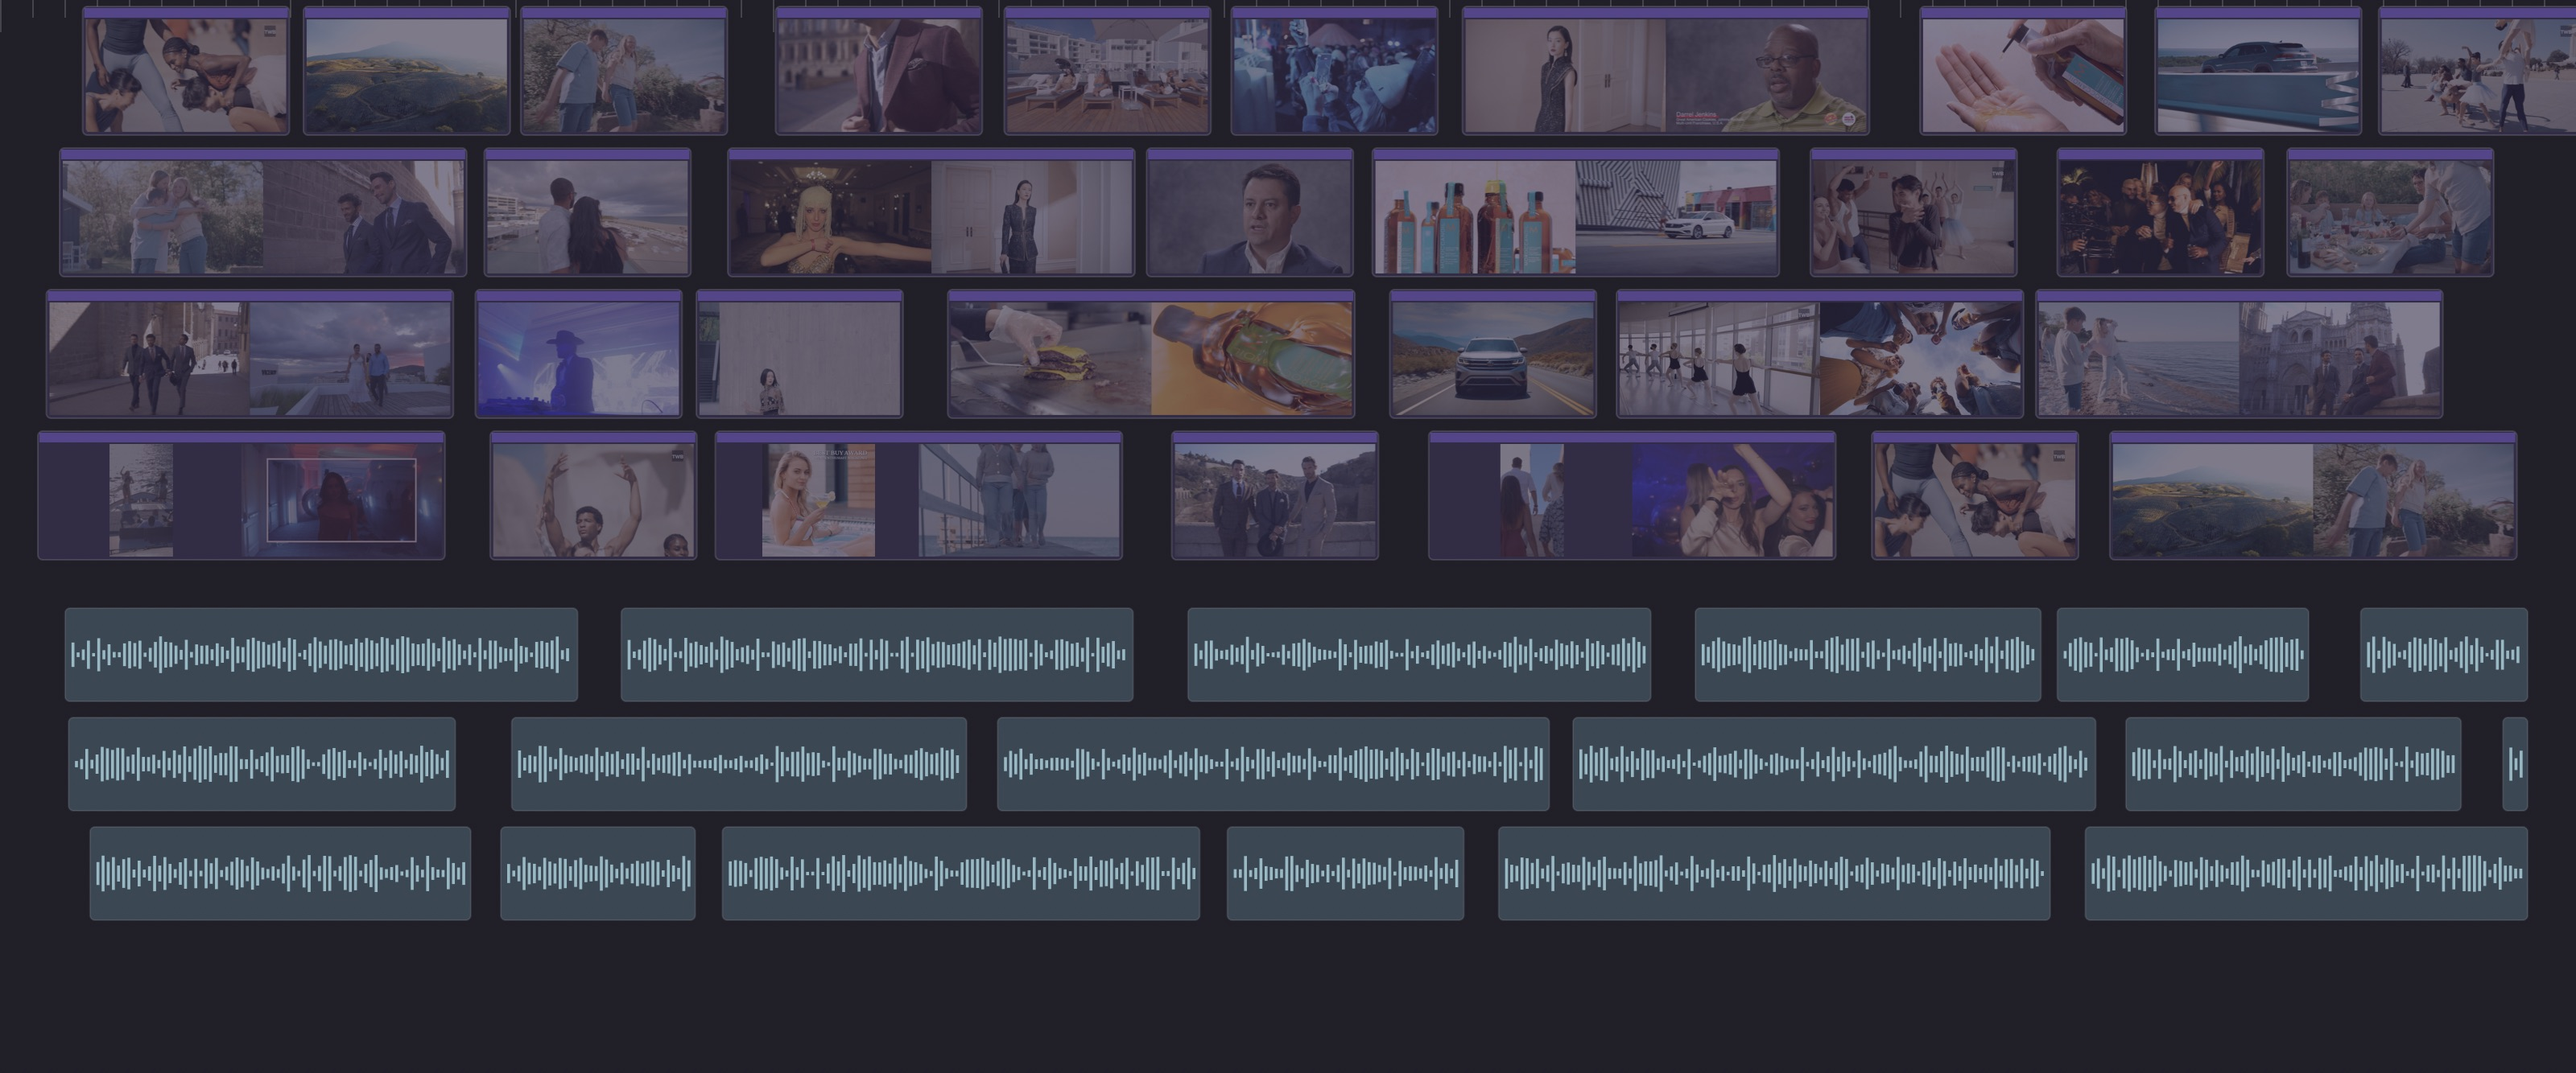
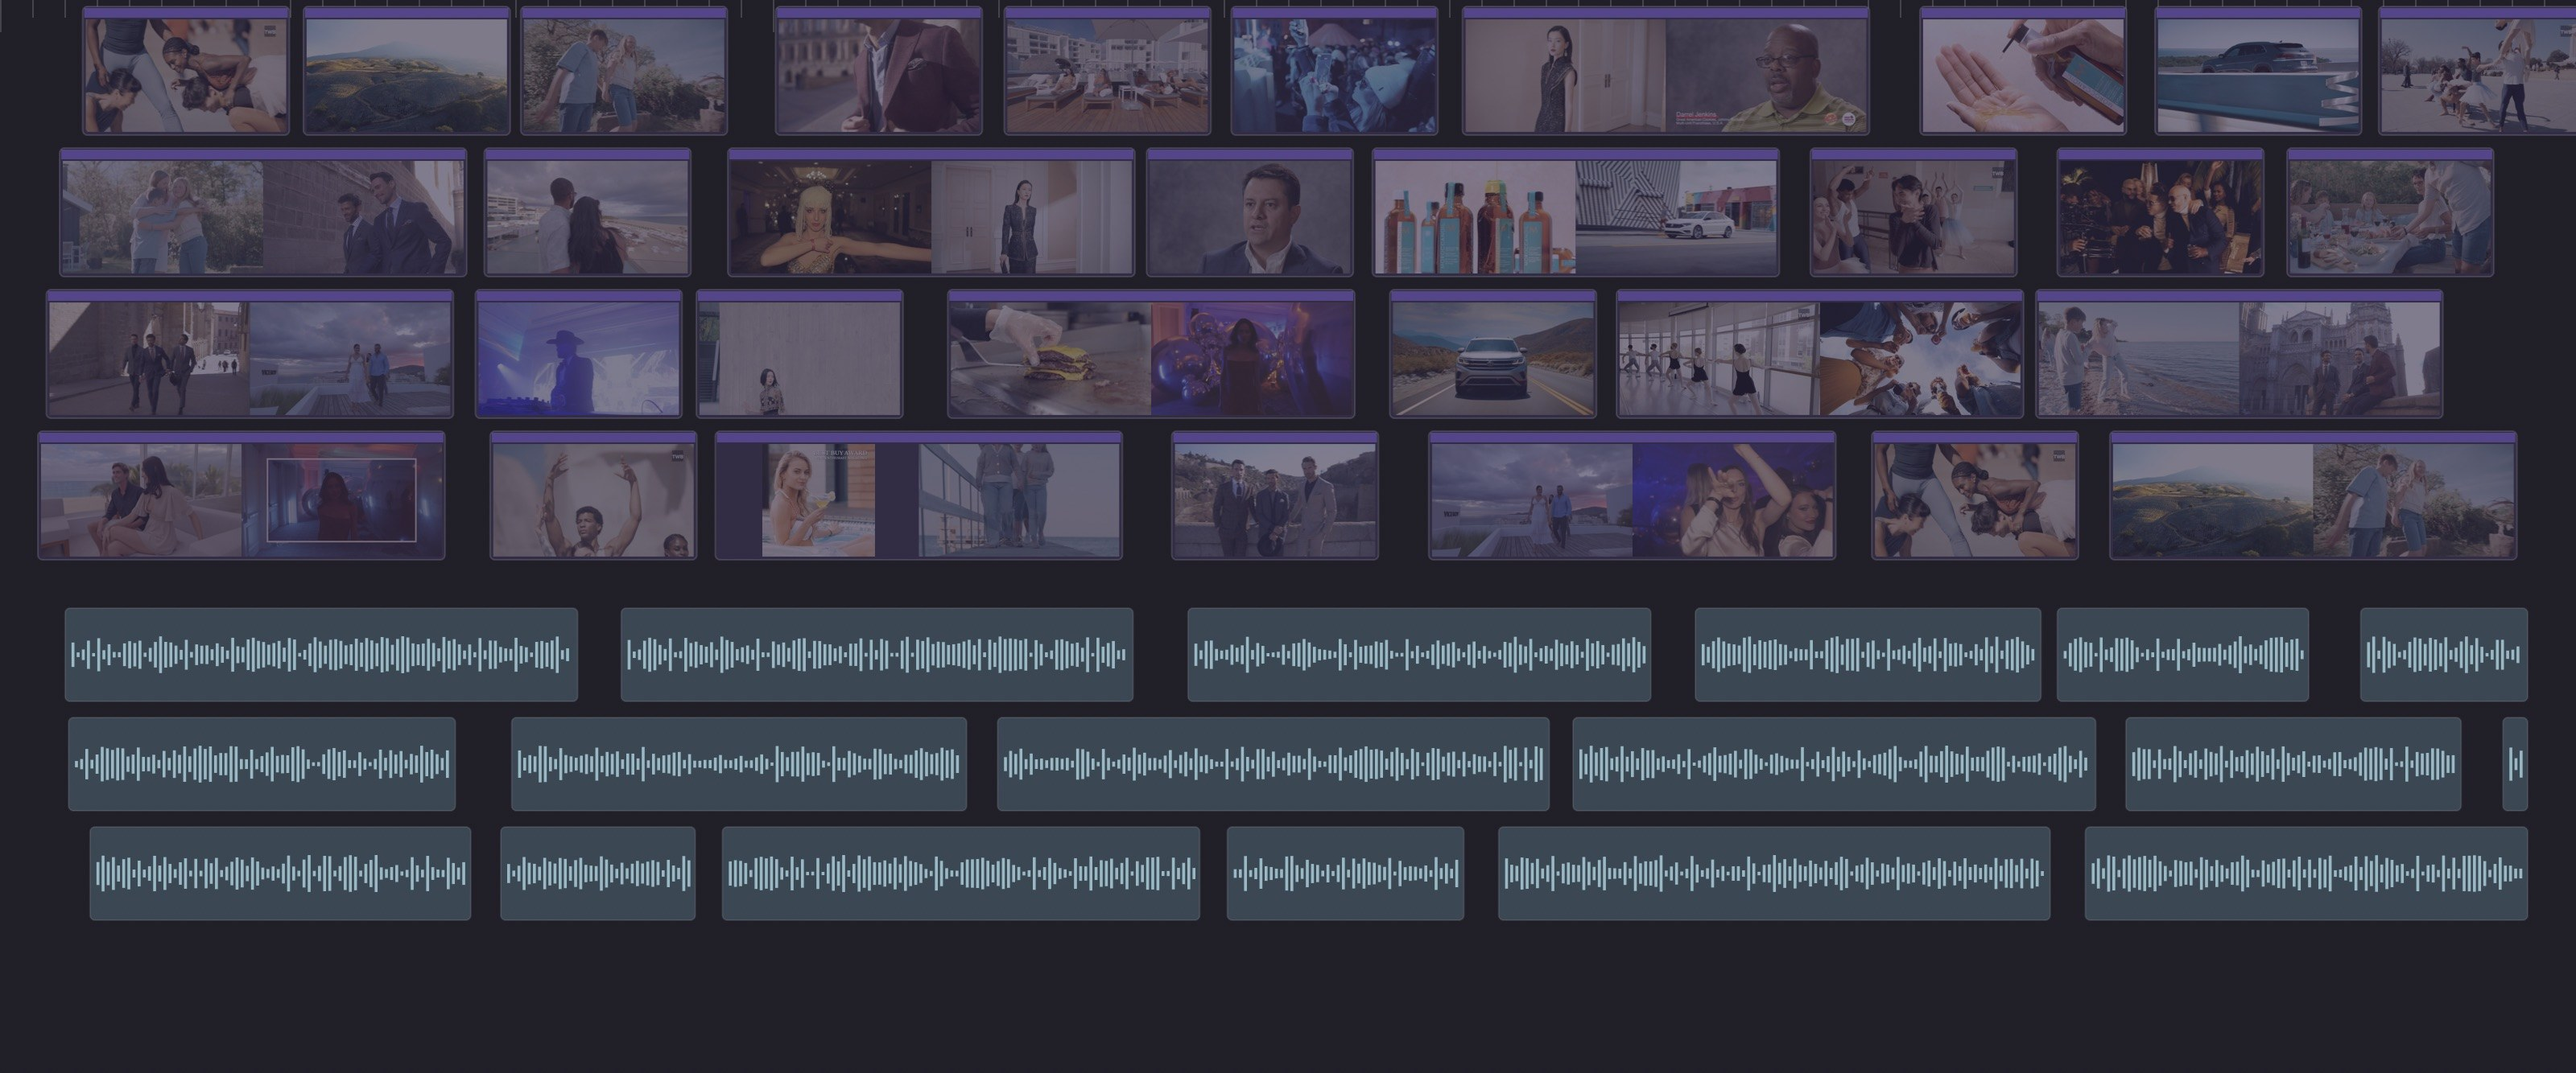
Refine hero timeline frames

Changed region(s): [[0.5312, 0.3996, 0.6562, 0.5225], [0.4375, 0.2766, 0.5312, 0.3996], [0.0, 0.3996, 0.0938, 0.5225]]

diff --git a/assets/site.css b/assets/site.css
@@ -45,7 +45,7 @@
       linear-gradient(100deg, rgba(19,18,23,.93) 0%, rgba(19,18,23,.70) 30%, rgba(19,18,23,.16) 62%, rgba(19,18,23,.30) 100%),
       linear-gradient(0deg, rgba(19,18,23,.90) 0%, rgba(19,18,23,.08) 48%, rgba(19,18,23,.26) 100%),
       radial-gradient(120% 90% at 72% 18%, rgba(169,139,239,.28), rgba(27,26,31,0) 55%),
-      url('img/hero-timeline.jpg?v=c29c5619') center/cover no-repeat,
+      url('img/hero-timeline.jpg?v=4e9a4562') center/cover no-repeat,
       linear-gradient(180deg, #26232e 0%, #131217 100%);
   }
   .hero-reed-inner { position: relative; z-index: 2; width: 100%; max-width: 1200px; margin: 0 auto; padding: 0 40px 9vh; }

diff --git a/blog/ai-in-the-edit/index.html b/blog/ai-in-the-edit/index.html
@@ -14,7 +14,7 @@
 <link rel="preconnect" href="https://fonts.googleapis.com">
 <link rel="preconnect" href="https://fonts.gstatic.com" crossorigin>
 <link href="https://fonts.googleapis.com/css2?family=Hanken+Grotesk:wght@400;500;600;700;800;900&display=swap" rel="stylesheet">
-<link rel="stylesheet" href="../../assets/site.css?v=84044f14">
+<link rel="stylesheet" href="../../assets/site.css?v=4b7a055e">
 </head>
 <body>
   <div class="container">

diff --git a/blog/index.html b/blog/index.html
@@ -14,7 +14,7 @@
 <link rel="preconnect" href="https://fonts.googleapis.com">
 <link rel="preconnect" href="https://fonts.gstatic.com" crossorigin>
 <link href="https://fonts.googleapis.com/css2?family=Hanken+Grotesk:wght@400;500;600;700;800;900&display=swap" rel="stylesheet">
-<link rel="stylesheet" href="../assets/site.css?v=84044f14">
+<link rel="stylesheet" href="../assets/site.css?v=4b7a055e">
 </head>
 <body>
   <div class="container">

diff --git a/es/index.html b/es/index.html
@@ -26,7 +26,7 @@
 <link rel="preconnect" href="https://fonts.googleapis.com">
 <link rel="preconnect" href="https://fonts.gstatic.com" crossorigin>
 <link href="https://fonts.googleapis.com/css2?family=Hanken+Grotesk:wght@400;500;600;700;800;900&display=swap" rel="stylesheet">
-<link rel="stylesheet" href="../assets/site.css?v=84044f14">
+<link rel="stylesheet" href="../assets/site.css?v=4b7a055e">
 </head>
 <body>
 

diff --git a/pt/index.html b/pt/index.html
@@ -26,7 +26,7 @@
 <link rel="preconnect" href="https://fonts.googleapis.com">
 <link rel="preconnect" href="https://fonts.gstatic.com" crossorigin>
 <link href="https://fonts.googleapis.com/css2?family=Hanken+Grotesk:wght@400;500;600;700;800;900&display=swap" rel="stylesheet">
-<link rel="stylesheet" href="../assets/site.css?v=84044f14">
+<link rel="stylesheet" href="../assets/site.css?v=4b7a055e">
 </head>
 <body>
 

diff --git a/index.html b/index.html
@@ -26,7 +26,7 @@
 <link rel="preconnect" href="https://fonts.googleapis.com">
 <link rel="preconnect" href="https://fonts.gstatic.com" crossorigin>
 <link href="https://fonts.googleapis.com/css2?family=Hanken+Grotesk:wght@400;500;600;700;800;900&display=swap" rel="stylesheet">
-<link rel="stylesheet" href="assets/site.css?v=84044f14">
+<link rel="stylesheet" href="assets/site.css?v=4b7a055e">
 </head>
 <body>
 

diff --git a/assets/build_blog.py b/assets/build_blog.py
@@ -134,7 +134,7 @@ PAGE = """<!DOCTYPE html>
 <link rel="preconnect" href="https://fonts.googleapis.com">
 <link rel="preconnect" href="https://fonts.gstatic.com" crossorigin>
 <link href="https://fonts.googleapis.com/css2?family=Hanken+Grotesk:wght@400;500;600;700;800;900&display=swap" rel="stylesheet">
-<link rel="stylesheet" href="{root}assets/site.css?v=84044f14">
+<link rel="stylesheet" href="{root}assets/site.css?v=4b7a055e">
 </head>
 <body>
 {header}
